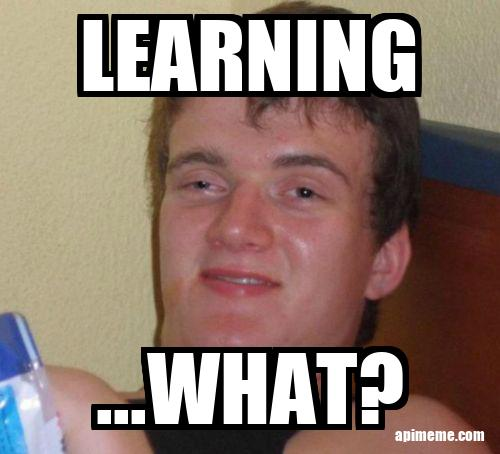
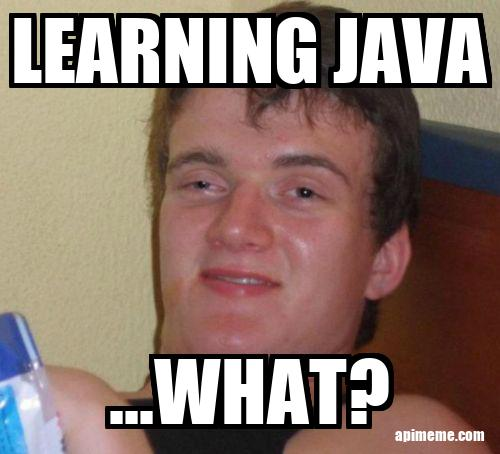
LinkedList contains spelling correction

Changed region(s): [[0.0, 0.0, 0.99, 0.2159], [0.18, 0.7401, 0.84, 0.9559]]

diff --git a/src/lecture/excursion/MemeGenerator.java b/src/lecture/excursion/MemeGenerator.java
@@ -1,2 +1,104 @@
-package lecture.excursion;public class MemeGenerator {
+package lecture.excursion;
+
+import javax.swing.*;
+import java.awt.*;
+import java.io.*;
+import java.net.URI;
+import java.net.http.HttpClient;
+import java.net.http.HttpRequest;
+import java.net.http.HttpResponse;
+
+public class MemeGenerator {
+
+  public static final String[] MEME_PICTURES = {"10 Guy", "1950s Middle Finger", "1990s First World Problems"};
+
+  private static final String baseUrl = "http://apimeme.com/meme?meme=%s&top=%s&bottom=%s";
+
+  public static void main(String[] args) throws IOException, InterruptedException {
+    HttpClient httpClient = HttpClient.newBuilder().build();
+
+    HttpRequest request =
+      HttpRequest.newBuilder()
+        .uri(URI.create("http://apimeme.com/meme?meme=Alarm-Clock&top=it's+time&bottom=...+to+learn"))
+        .GET()
+        .build();
+
+    HttpResponse<byte[]> response =
+      httpClient.send(request, HttpResponse.BodyHandlers.ofByteArray());
+
+    System.out.println(response.statusCode());
+
+    File imageFile = new File(System.getProperty("user.dir") + File.separator + "image.jpg");
+    imageFile.createNewFile();
+
+    try(FileOutputStream writeImageToFile = new FileOutputStream(imageFile)){
+      byte[] imageInBytes = response.body();
+
+      writeImageToFile.write(imageInBytes);
+
+    }catch(IOException e){
+
+    }
+
+
+    byte[] imageMemeBytes = getImageInBytesFromApi("1990s First World Problems", "learning java", "...what?");
+
+    ImageIcon imageMeme = new ImageIcon(imageMemeBytes);
+
+    JFrame memeFrame = new JFrame("My Meme");
+
+    memeFrame.add(new JLabel(imageMeme));
+
+    memeFrame.setDefaultCloseOperation(JFrame.EXIT_ON_CLOSE);
+    memeFrame.pack();
+    memeFrame.setVisible(true);
+
+
+    //System.out.println(new String(response.body()));
+  }
+
+  public static byte[] getImageInBytesFromApi(String memeDescriptor, String topText, String bottomText){
+
+    final String targetUrl = String.format(baseUrl, memeDescriptor.replace(" ", "-"), topText.replace(" ", "+"), bottomText.replace(" ", "+"));
+
+    HttpClient httpClient = HttpClient.newBuilder().build();
+
+    HttpRequest request = null;
+    HttpResponse<byte[]> response = null;
+
+    try {
+      request =
+        HttpRequest.newBuilder()
+          .uri(URI.create(targetUrl))
+          .GET()
+          .build();
+
+      response =
+        httpClient.send(request, HttpResponse.BodyHandlers.ofByteArray());
+
+      System.out.println(response.statusCode());
+
+    }catch(IOException e){
+      e.printStackTrace();
+    } catch (InterruptedException e) {
+      e.printStackTrace();
+    }
+
+    File imageFile = new File(System.getProperty("user.dir") + File.separator + "image_" + memeDescriptor.replace(" ", "-") + ".jpg");
+
+    try(FileOutputStream writeImageToFile = new FileOutputStream(imageFile)){
+      if(!imageFile.exists()){
+        imageFile.createNewFile();
+      }
+
+      byte[] imageInBytes = response.body();
+      writeImageToFile.write(imageInBytes);
+
+    }catch(IOException e){
+
+    }
+
+    return response.body();
+
+  }
 }

diff --git a/src/lecture/excursion/memegenerator/Meme.java b/src/lecture/excursion/memegenerator/Meme.java
@@ -1,2 +1,10 @@
-package lecture.excursion.memegenerator;public class Meme {
+package lecture.excursion.memegenerator;
+
+public class Meme {
+
+  private String memePicture;
+  private String topText;
+  private String bottomText;
+
+
 }

diff --git a/src/lecture/chapter12/LinkedList.java b/src/lecture/chapter12/LinkedList.java
@@ -26,7 +26,7 @@ public class LinkedList {
     return 0;
   }
 
-  public boolean conatins(String word){
+  public boolean contains(String word){
     // TODO
     return false;
   }
